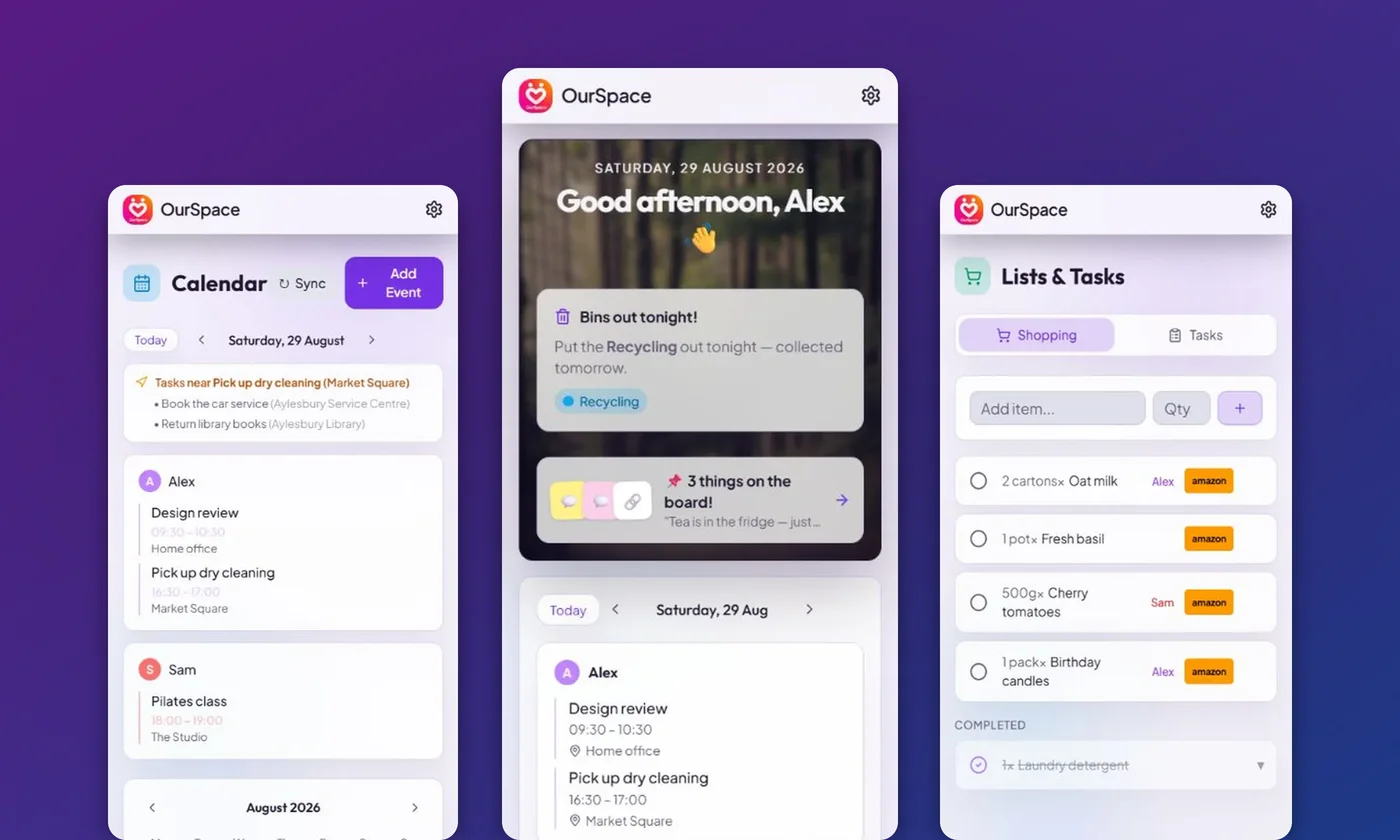
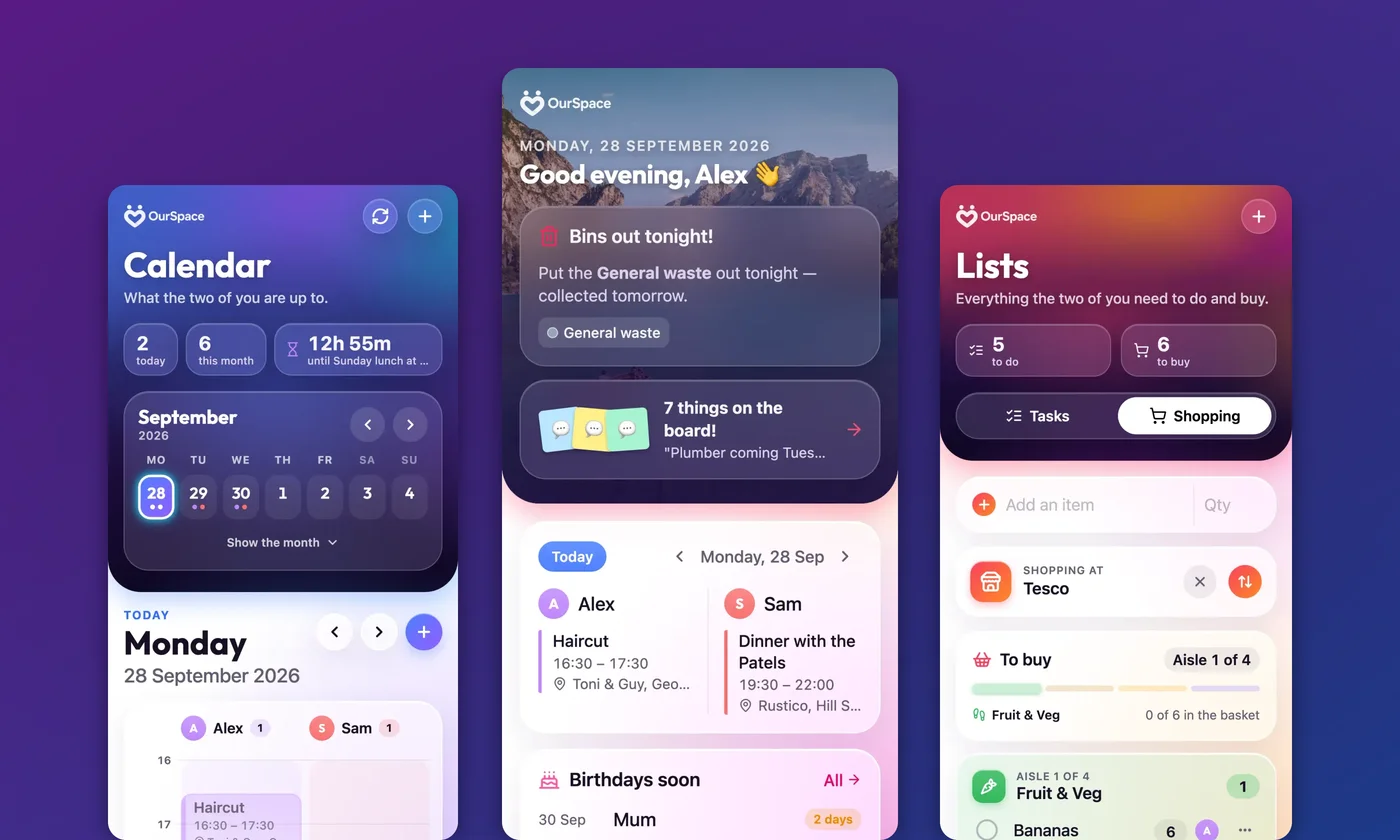
OurSpace: screenshots in the app's new look
The iPhone app has been rebuilt with a new design, and the website and
Android app now share it. Every OurSpace picture on this site is retaken
from the demo household: the eight phone screens, the four laptop screens
and the three-phone hero (rebuilt with scripts/build_ourspace_shots.mjs).
Descriptions rewritten to say what is now in each picture; the laptop
pictures are 1400 x 972.

For release on the day OurSpace 9.0 goes on sale: merge into main.

diff --git a/ourspace.html b/ourspace.html
@@ -101,7 +101,7 @@
           </div>
           <div class="product-preview">
             <div class="product-preview-heading"><span class="product-preview-dot" aria-hidden="true"></span><span>A little less to keep in your head</span><span aria-hidden="true">↗</span></div>
-            <div class="product-screen-stage"><a class="hero-product-shot shot-link" href="img/shots/ourspace-hero.webp"><img src="img/shots/ourspace-hero.webp" alt="Three phones showing OurSpace's calendar, the home screen with its bin reminder and noticeboard, and the shared shopping list, side by side on the app's purple background" width="1400" height="840" fetchpriority="high"></a></div>
+            <div class="product-screen-stage"><a class="hero-product-shot shot-link" href="img/shots/ourspace-hero.webp"><img src="img/shots/ourspace-hero.webp" alt="Three phones showing OurSpace's calendar with the week and the day's timeline, the home screen with its bin reminder and notice board over the photo of the day, and the shopping list sorted aisle by aisle, side by side on purple" width="1400" height="840" fetchpriority="high"></a></div>
             <p class="product-preview-caption">OurSpace on your phone: your calendar, home and shopping list, together.</p>
             <div class="product-workflow" aria-label="The OurSpace workflow"><span>Share the plans</span><span>Sort the everyday</span><span>Keep in sync</span></div>
           </div>
@@ -133,7 +133,7 @@
           </div>
           <div class="product-tour-panel" id="ourspace-tour-panel">
             <div class="product-tour-window"><div class="product-tour-window-dots" aria-hidden="true"><i></i><i></i><i></i></div><div class="product-tour-devices" aria-label="Preview device" hidden><button type="button" data-tour-device="desktop" aria-pressed="true">Laptop</button><button type="button" data-tour-device="phone" aria-pressed="false">Phone</button></div><span class="product-tour-counter" aria-hidden="true">01 / 04</span></div>
-            <div class="product-tour-stage"><a class="product-tour-image shot-link" href="img/shots/ourspace-desktop-home.webp"><img src="img/shots/ourspace-desktop-home.webp" alt="OurSpace&#x27;s home screen in a browser: the day&#x27;s greeting and bin reminder across the top, then three columns holding each partner&#x27;s events, the upcoming tasks, the monthly budget and the financial snapshot" width="1400" height="983" loading="lazy"></a><span class="product-tour-enlarge" aria-hidden="true">↗ Select the screen to enlarge</span></div>
+            <div class="product-tour-stage"><a class="product-tour-image shot-link" href="img/shots/ourspace-desktop-home.webp"><img src="img/shots/ourspace-desktop-home.webp" alt="OurSpace&#x27;s home screen in a browser, as two pages: today over the photo of the day on the left, with the bins, notice board, catch-up from your partner and both your events; on the right, the tasks, shopping, birthdays and renewals to see to" width="1400" height="972" loading="lazy"></a><span class="product-tour-enlarge" aria-hidden="true">↗ Select the screen to enlarge</span></div>
             <div class="product-tour-copy"><div><p class="product-tour-feature-label">OurSpace / Your day</p><h3>Home — the whole day without scrolling</h3><p class="product-tour-description">Your day, your lists and your money — side by side, so both of you are looking at the same thing.</p></div><a class="product-tour-detail" href="#ourspace-explore-1">The full detail <span aria-hidden="true">↗</span></a></div>
           </div>
         </div>
@@ -237,35 +237,35 @@
         <p class="measure">Your day, your lists and your money — side by side, so both of you are looking at the same thing. Shown here with sample data from a made-up household.</p>
         <div class="phone-shots product-phone-gallery">
           <figure id="ourspace-explore-1-phone">
-            <a class="shot-link" href="img/shots/ourspace-home.webp"><img class="feature-shot" src="img/shots/ourspace-home.webp" width="1080" height="2433" loading="lazy" alt="OurSpace's home screen: today's events split into two columns, one per partner, above an AI-written digest summarising what the other person added or ticked off since you last looked"></a>
+            <a class="shot-link" href="img/shots/ourspace-home.webp"><img class="feature-shot" src="img/shots/ourspace-home.webp" width="1080" height="2433" loading="lazy" alt="OurSpace's home screen: the day's greeting over a photo, the bin reminder and notice board, then each partner's events for today side by side and the birthdays coming up"></a>
             <figcaption>Home — the day, and what changed</figcaption>
           </figure>
           <figure id="ourspace-explore-2-phone">
-            <a class="shot-link" href="img/shots/ourspace-calendar.webp"><img class="feature-shot" src="img/shots/ourspace-calendar.webp" width="1080" height="2433" loading="lazy" alt="OurSpace's calendar: each partner's Google Calendar events for the day listed under their own name, with a month view underneath"></a>
+            <a class="shot-link" href="img/shots/ourspace-calendar.webp"><img class="feature-shot" src="img/shots/ourspace-calendar.webp" width="1080" height="2433" loading="lazy" alt="OurSpace's calendar: the week with dots for each partner's events, then the day as a timeline with a lane for each of you"></a>
             <figcaption>Calendar — both diaries, one view</figcaption>
           </figure>
           <figure>
-            <a class="shot-link" href="img/shots/ourspace-lists.webp"><img class="feature-shot" src="img/shots/ourspace-lists.webp" width="1080" height="2433" loading="lazy" alt="OurSpace's shopping list with quantities, an item assigned to a partner, quick shopping links, and a completed section showing what has been ticked off"></a>
+            <a class="shot-link" href="img/shots/ourspace-lists.webp"><img class="feature-shot" src="img/shots/ourspace-lists.webp" width="1080" height="2433" loading="lazy" alt="OurSpace's lists: how many tasks and items are left, then the shopping list for Tesco sorted aisle by aisle, with a bar showing how far round the shop you are"></a>
             <figcaption>Lists — shopping and tasks</figcaption>
           </figure>
           <figure id="ourspace-explore-3-phone">
-            <a class="shot-link" href="img/shots/ourspace-meals.webp"><img class="feature-shot" src="img/shots/ourspace-meals.webp" width="1080" height="2433" loading="lazy" alt="OurSpace's meal planner: a box for the week's food preferences above the drafted dinners, each with its description, cooking instructions and side, ready to accept or swap"></a>
+            <a class="shot-link" href="img/shots/ourspace-meals.webp"><img class="feature-shot" src="img/shots/ourspace-meals.webp" width="1080" height="2433" loading="lazy" alt="OurSpace's meal planner: tonight's dinner with a Start cooking button, then a plate for each night of the week showing which dinners are decided"></a>
             <figcaption>Meals — the week's dinners drafted</figcaption>
           </figure>
           <figure id="ourspace-explore-4-phone">
-            <a class="shot-link" href="img/shots/ourspace-finance.webp"><img class="feature-shot" src="img/shots/ourspace-finance.webp" width="1080" height="2433" loading="lazy" alt="OurSpace's finance screen: bank, assets, pensions and debts totalled into a net worth figure, with current and savings accounts listed below"></a>
+            <a class="shot-link" href="img/shots/ourspace-finance.webp"><img class="feature-shot" src="img/shots/ourspace-finance.webp" width="1080" height="2433" loading="lazy" alt="OurSpace's finance screen: the household's net worth with what is owned and owed, the monthly surplus and the next payment, then a ring showing bank, pensions, assets and debts"></a>
             <figcaption>Finance — the whole picture</figcaption>
           </figure>
           <figure>
-            <a class="shot-link" href="img/shots/ourspace-budget.webp"><img class="feature-shot" src="img/shots/ourspace-budget.webp" width="1080" height="2433" loading="lazy" alt="OurSpace's budget screen: monthly income, outgoings and surplus totals, with each partner's income listed and outgoings imported from direct debits"></a>
+            <a class="shot-link" href="img/shots/ourspace-budget.webp"><img class="feature-shot" src="img/shots/ourspace-budget.webp" width="1080" height="2433" loading="lazy" alt="OurSpace's budget: monthly income, outgoings and surplus side by side, then each partner's income listed under their name"></a>
             <figcaption>Budget — what's left each month</figcaption>
           </figure>
           <figure>
-            <a class="shot-link" href="img/shots/ourspace-contracts.webp"><img class="feature-shot" src="img/shots/ourspace-contracts.webp" width="1080" height="2433" loading="lazy" alt="OurSpace's contracts screen: total monthly outgoings above broadband, insurance and energy contracts, each with its cost and renewal date, one flagged amber as renewing soon"></a>
+            <a class="shot-link" href="img/shots/ourspace-contracts.webp"><img class="feature-shot" src="img/shots/ourspace-contracts.webp" width="1080" height="2433" loading="lazy" alt="OurSpace's contracts screen: what the household's contracts cost a month and a year, a ribbon of the year's renewals, then a timeline with a lapsed policy and two contracts renewing within weeks"></a>
             <figcaption>Contracts — renewals seen coming</figcaption>
           </figure>
           <figure>
-            <a class="shot-link" href="img/shots/ourspace-birthdays.webp"><img class="feature-shot" src="img/shots/ourspace-birthdays.webp" width="1080" height="2433" loading="lazy" alt="OurSpace's birthdays screen: upcoming birthdays with days-to-go badges, last year's gift noted, and buttons to suggest a gift, buy a card or shop on Amazon"></a>
+            <a class="shot-link" href="img/shots/ourspace-birthdays.webp"><img class="feature-shot" src="img/shots/ourspace-birthdays.webp" width="1080" height="2433" loading="lazy" alt="OurSpace's birthdays screen: who's next and how many days to go, then the year's birthdays month by month with the age each person is turning"></a>
             <figcaption>Birthdays — a week's warning</figcaption>
           </figure>
         </div>
@@ -279,19 +279,19 @@
         <p class="measure">OurSpace is a web app as well as a phone one, so the same household opens at our-space.me in any browser — the same data, with more of it in front of you at once. Useful for the Sunday-night sort-out, when you're going through the month's money or planning the week's dinners properly.</p>
         <div class="desktop-shots product-desktop-gallery">
           <figure id="ourspace-explore-1" data-tour-title="Home — the whole day without scrolling" data-tour-summary="Your day, your lists and your money — side by side, so both of you are looking at the same thing.">
-            <a class="shot-link" href="img/shots/ourspace-desktop-home.webp"><img class="feature-shot" src="img/shots/ourspace-desktop-home.webp" width="1400" height="983" loading="lazy" alt="OurSpace's home screen in a browser: the day's greeting and bin reminder across the top, then three columns holding each partner's events, the upcoming tasks, the monthly budget and the financial snapshot"></a>
+            <a class="shot-link" href="img/shots/ourspace-desktop-home.webp"><img class="feature-shot" src="img/shots/ourspace-desktop-home.webp" width="1400" height="972" loading="lazy" alt="OurSpace's home screen in a browser, as two pages: today over the photo of the day on the left, with the bins, notice board, catch-up from your partner and both your events; on the right, the tasks, shopping, birthdays and renewals to see to"></a>
             <figcaption>Home — the whole day without scrolling</figcaption>
           </figure>
           <figure id="ourspace-explore-2" data-tour-title="Calendar — both diaries side by side" data-tour-summary="Each of you connects your own Google Calendar (read-only — OurSpace can look, never change anything) and the events appear side by side.">
-            <a class="shot-link" href="img/shots/ourspace-desktop-calendar.webp"><img class="feature-shot" src="img/shots/ourspace-desktop-calendar.webp" width="1400" height="972" loading="lazy" alt="OurSpace's calendar in a browser: each partner's day in its own card side by side, with the month view underneath and both names marked against the day's dots"></a>
+            <a class="shot-link" href="img/shots/ourspace-desktop-calendar.webp"><img class="feature-shot" src="img/shots/ourspace-desktop-calendar.webp" width="1400" height="972" loading="lazy" alt="OurSpace's calendar in a browser, as two pages: the month with each partner's events marked as dots and what's coming up on the left; on the right, the day as a timeline with a lane for each of you"></a>
             <figcaption>Calendar — both diaries side by side</figcaption>
           </figure>
           <figure id="ourspace-explore-4" data-tour-title="Finance — accounts, debts, pensions and assets" data-tour-summary="Accounts, direct debits, debts, pensions and assets, totalled into one net-worth figure.">
-            <a class="shot-link" href="img/shots/ourspace-desktop-finance.webp"><img class="feature-shot" src="img/shots/ourspace-desktop-finance.webp" width="1400" height="983" loading="lazy" alt="OurSpace's finance screen in a browser: bank, assets, pensions, debts and net worth across the top, then accounts, debts and commitments, pensions and physical assets listed below"></a>
+            <a class="shot-link" href="img/shots/ourspace-desktop-finance.webp"><img class="feature-shot" src="img/shots/ourspace-desktop-finance.webp" width="1400" height="972" loading="lazy" alt="OurSpace's finance screen in a browser, as two pages: net worth, a ring of what you own and owe, and the monthly budget on the left; on the right, bank, pensions and debts totalled above the accounts, debts and pensions themselves"></a>
             <figcaption>Finance — accounts, debts, pensions and assets</figcaption>
           </figure>
           <figure id="ourspace-explore-3" data-tour-title="Meals — a week of dinners to accept or swap" data-tour-summary="An AI meal planner drafts the week&#x27;s dinners around your tastes; accept the ones you fancy and the ingredients land on the shopping list in a tap.">
-            <a class="shot-link" href="img/shots/ourspace-desktop-meals.webp"><img class="feature-shot" src="img/shots/ourspace-desktop-meals.webp" width="1400" height="983" loading="lazy" alt="OurSpace's meal planner in a browser: the week's preferences at the top, then each day's dinner with its description, cooking instructions and side, ready to accept, edit, swap or send to the shopping list"></a>
+            <a class="shot-link" href="img/shots/ourspace-desktop-meals.webp"><img class="feature-shot" src="img/shots/ourspace-desktop-meals.webp" width="1400" height="972" loading="lazy" alt="OurSpace's meal planner in a browser, as two pages: tonight's dinner and a plate for each night of the week on the left; on the right, tonight's recipe with a Start cooking button, the ingredients and a choice of sides"></a>
             <figcaption>Meals — a week of dinners to accept or swap</figcaption>
           </figure>
         </div>
